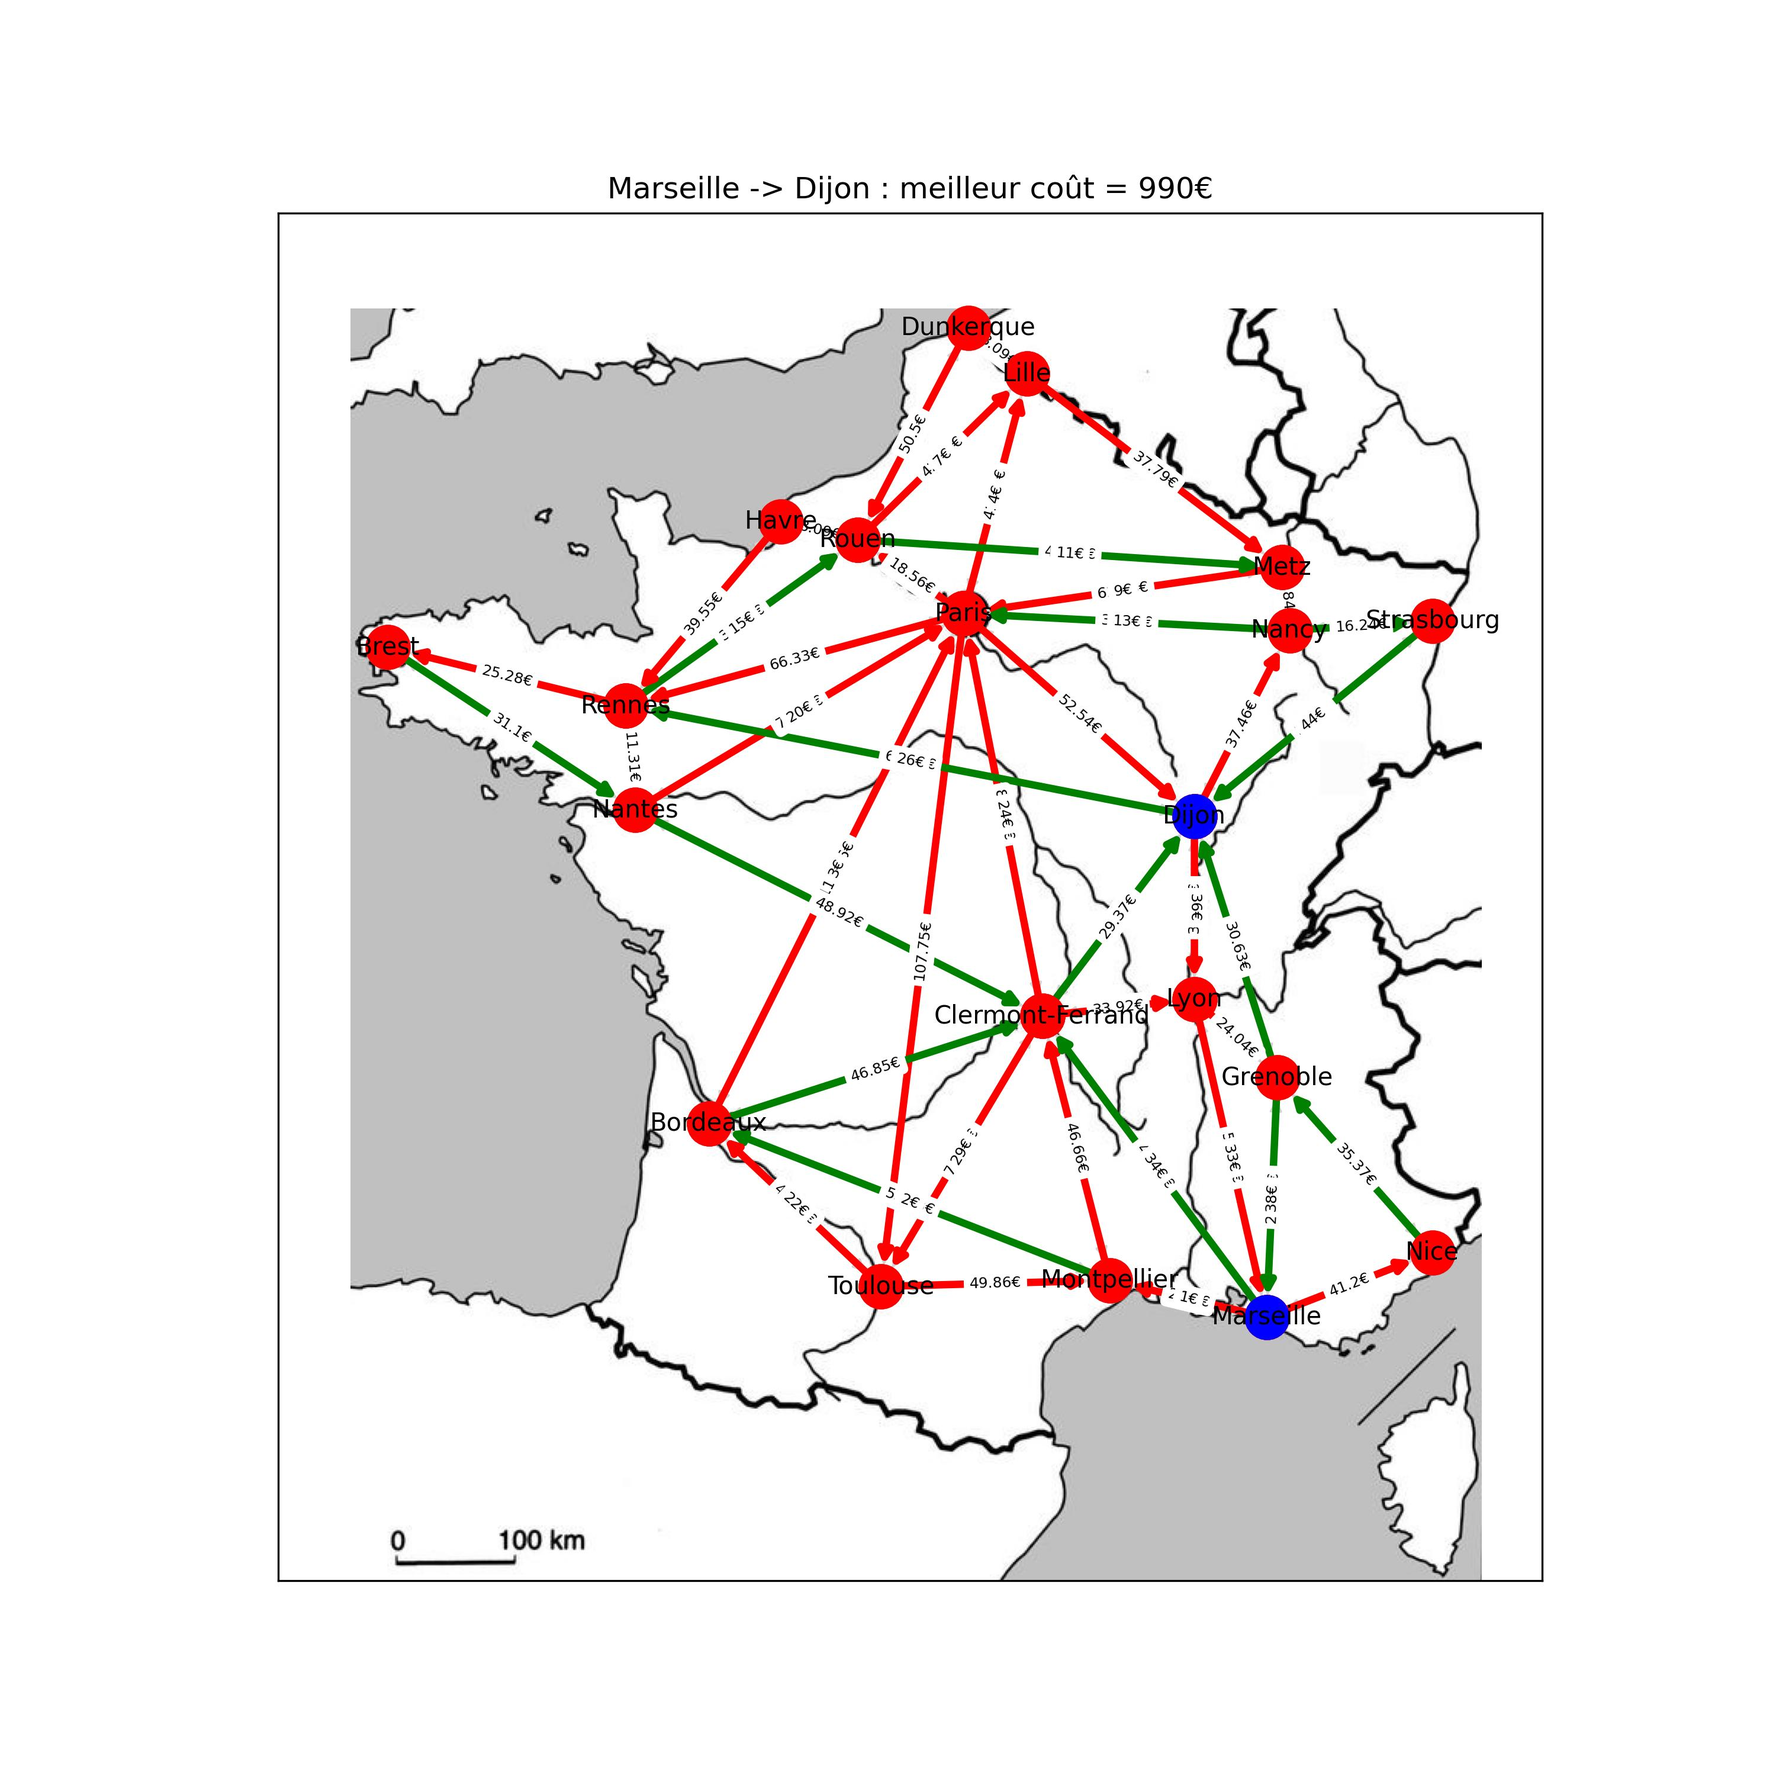
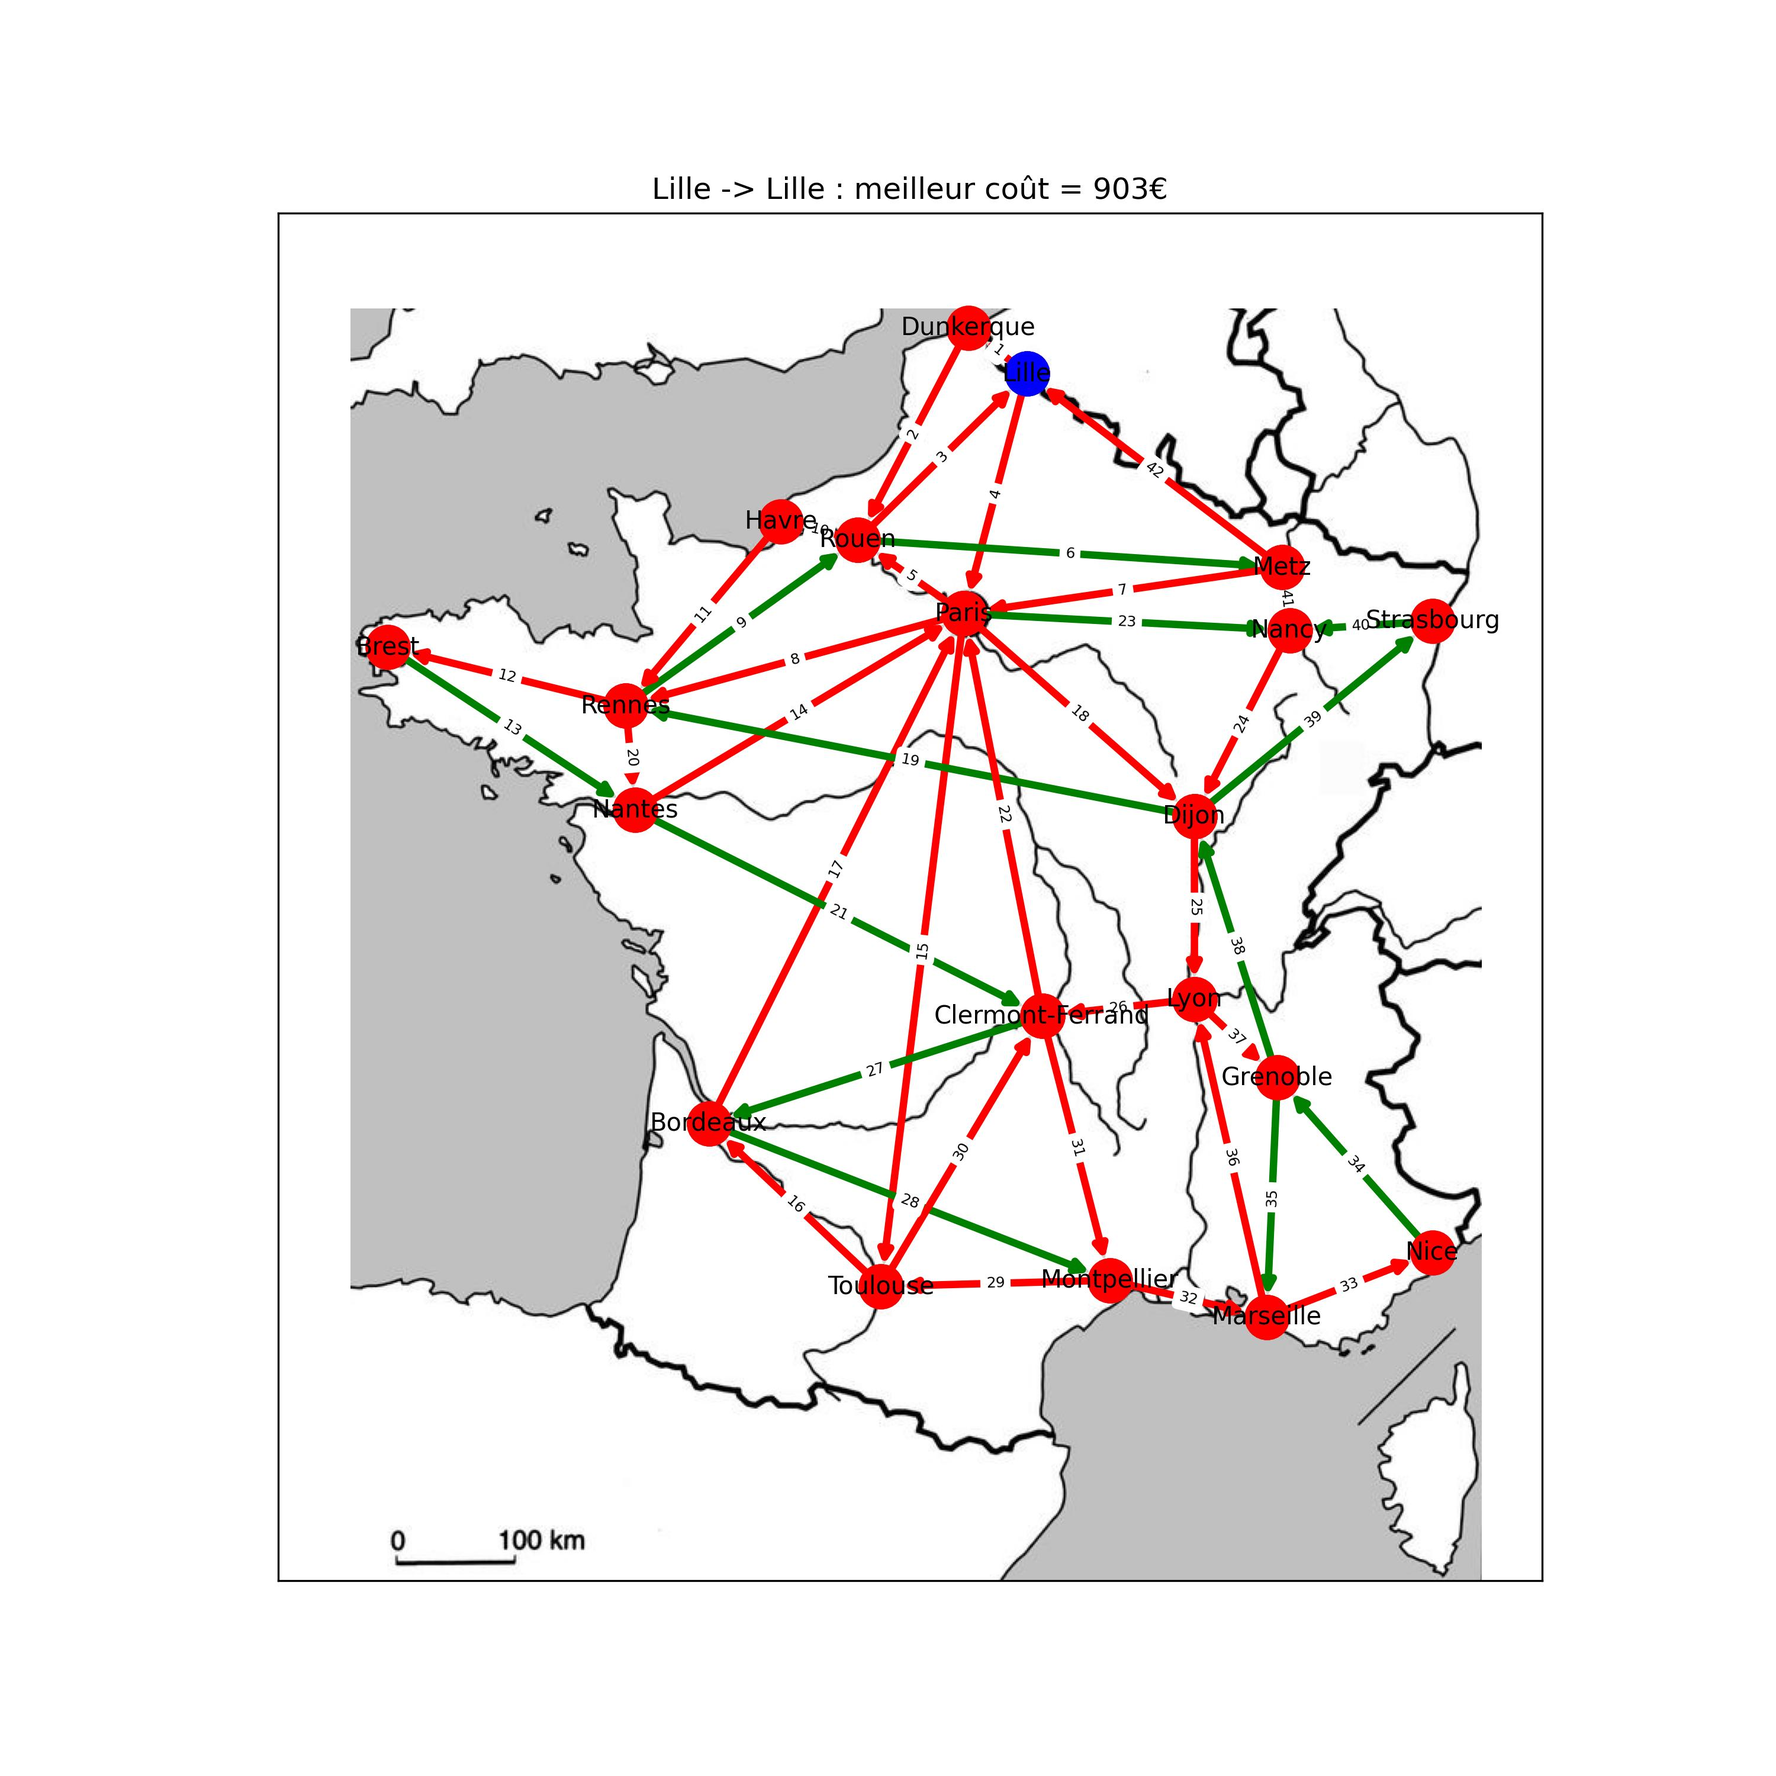
avec tous les Questions et Bonus

diff --git a/TP2_carte_son.py b/TP2_carte_son.py
@@ -110,7 +110,7 @@ def dessiner_graphe_sur_carte(graphe, sommets, chemin_image_carte, titre, show_c
 
     plt.show()
 
-def dessiner_graphe_sur_carte_avec_chemin(chemin: list, graphe, sommets, chemin_image_carte, critere, contrainte = "", direction=False, export_path=None):
+def dessiner_graphe_sur_carte_avec_chemin(chemin: list, graphe, sommets, chemin_image_carte, critere, titre, contrainte = "", direction=False, export_path=None):
     img = mpimg.imread(chemin_image_carte)
     
     plt.rcParams["figure.figsize"] = (10, 10)
@@ -119,18 +119,16 @@ def dessiner_graphe_sur_carte_avec_chemin(chemin: list, graphe, sommets, chemin_
    
     # utilisant nx, dessiner le graphe, couleur grise pour highlight plus tard
     nx.draw_networkx(
-        graphe, # réseau des liaisons
-        pos=sommets, # sommets
-        ax=ax, # plot
+        graphe,
+        pos=sommets,
+        ax=ax,
         node_color='gray',
         edge_color='lightgray',
         font_size=10,
         width=1
     )
     
-    # Surligner les sommets du chemin
-
-
+    # Surligner en rouge les sommets intermédiaires du chemin
     if len(chemin) > 2:
         nx.draw_networkx_nodes(
             graphe,
@@ -140,6 +138,7 @@ def dessiner_graphe_sur_carte_avec_chemin(chemin: list, graphe, sommets, chemin_
             node_color='red'
         )
 
+    # Surligner en blue les extrémités du chemin
     nx.draw_networkx_nodes(
         graphe,
         pos=sommets,
@@ -174,8 +173,10 @@ def dessiner_graphe_sur_carte_avec_chemin(chemin: list, graphe, sommets, chemin_
                 arrows=direction
             )
 
-            detail = f"meilleur coût = {data['cout']}€" if critere=='cout' else f"meilleur temps = {data['duree']} minutes"
-            plt.title(f"{chemin[0]} -> {chemin[-1]} {contrainte}: {detail}")
+            # detail = f"meilleur coût = {data['cout']}€" if critere=='cout' else f"meilleur temps = {data['duree']} minutes"
+            # plt.title(f"{chemin[0]} -> {chemin[-1]} {contrainte}: {detail}")
+            plt.title(f"{chemin[0]} -> {chemin[-1]} {contrainte}: {titre}")
+
         else:
             plt.title(f"{chemin[0]} -> {chemin[-1]} {contrainte}: pas de route")
     else:
@@ -218,8 +219,9 @@ def dessiner_graphe_sur_carte_avec_chemin(chemin: list, graphe, sommets, chemin_
                 arrows=direction
             )
 
-            detail = f"meilleur coût = {round(total_cout,2)}€" if critere=='cout' else f"meilleur temps = {round(total_duree,2)} minutes"
-            plt.title(f"{chemin[0]} -> {chemin[-1]} {contrainte}: {detail}")
+            # detail = f"meilleur coût = {round(total_cout,2)}€" if critere=='cout' else f"meilleur temps = {round(total_duree,2)} minutes"
+            # plt.title(f"{chemin[0]} -> {chemin[-1]} {contrainte}: {detail}")
+            plt.title(f"{chemin[0]} -> {chemin[-1]} {contrainte}: {titre}")
 
     # Afficher cout / durée sur la carte
     if critere == 'cout':
@@ -311,122 +313,117 @@ if __name__ == "__main__":
 
     # =================================================================================================
     
-    # # Q1
-    # if nx.is_connected(G):
-    #     connexe = "est connexe"
-    # else: connexe = "n'est pas connexe"
-    # print(f"Q1: Le graphe {connexe}")
-    # dessiner_graphe_sur_carte(G, sommets, chemin_image_carte, f"graphe {connexe}")
+    # Q1
+    if nx.is_connected(G):
+        connexe = "est connexe"
+    else: connexe = "n'est pas connexe"
+    print(f"Q1: Le graphe {connexe}")
+    dessiner_graphe_sur_carte(G, sommets, chemin_image_carte, f"graphe {connexe}")
 
 
 
-    # # Q2 - chemin le plus court
-    # ville_depart="Paris"
-    # ville_arrivee="Rennes"
-    # print(f"Q2: Chemin le plus court entre : {ville_depart} et {ville_arrivee}")
-    # chemin_duree = meilleur_chemin(graphe=G, ville_depart=ville_depart, ville_arrivee=ville_arrivee, critere='duree')
-    # dessiner_graphe_sur_carte_avec_chemin(chemin_duree, G, sommets, chemin_image_carte, critere='duree')
+    # Q2 - chemin le plus court
+    ville_depart="Paris"
+    ville_arrivee="Rennes"
+    print(f"Q2: Chemin le plus court entre : {ville_depart} et {ville_arrivee}")
+    chemin_duree = meilleur_chemin(graphe=G, ville_depart=ville_depart, ville_arrivee=ville_arrivee, critere='duree')
+    dessiner_graphe_sur_carte_avec_chemin(chemin_duree, G, sommets, chemin_image_carte, titre='chemin le plus court', critere='duree')
 
 
 
-    # # Q3 - chemin le moins cher
-    # ville_depart="Paris"
-    # ville_arrivee="Marseille"
+    # Q3 - chemin le moins cher
+    ville_depart="Paris"
+    ville_arrivee="Marseille"
 
-    # print(f"Q3: Chemin le moins cher entre : {ville_depart} et {ville_arrivee}")
-    # chemin_cout = meilleur_chemin(graphe=G, ville_depart=ville_depart, ville_arrivee=ville_arrivee, critere='cout')
-    # dessiner_graphe_sur_carte_avec_chemin(chemin_cout, G, sommets, chemin_image_carte, critere='cout')
+    print(f"Q3: Chemin le moins cher entre : {ville_depart} et {ville_arrivee}")
+    chemin_cout = meilleur_chemin(graphe=G, ville_depart=ville_depart, ville_arrivee=ville_arrivee, critere='cout')
+    dessiner_graphe_sur_carte_avec_chemin(chemin_cout, G, sommets, chemin_image_carte, titre='chemin le moins cher', critere='cout')
 
 
 
-    # # Q4 - chemin le plus court SANS autoroutes
-    # ville_depart="Paris"
-    # ville_arrivee="Havre"
+    # Q4 - chemin le plus court SANS autoroutes
+    ville_depart="Paris"
+    ville_arrivee="Havre"
     
-    # print(f"Q4: Chemin le plus court SANS autoroutes entre : {ville_depart} et {ville_arrivee}")
-    # G_filtre = filtre_graphe(G,'a')
-    # dessiner_graphe_sur_carte(G_filtre, sommets, chemin_image_carte, "Carte sans autoroutes", show_duree=True, export_path="carte_sans_autoroute_avec_duree.jpg")
-    # chemin_duree_sans_a = meilleur_chemin(graphe=G_filtre, ville_depart=ville_depart, ville_arrivee=ville_arrivee, critere='duree')
-    # dessiner_graphe_sur_carte_avec_chemin(chemin_duree_sans_a, G_filtre, sommets, chemin_image_carte, critere='duree', contrainte="sans autoroutes")
+    print(f"Q4: Chemin le plus court SANS autoroutes entre : {ville_depart} et {ville_arrivee}")
+    G_filtre = filtre_graphe(G,'a')
+    dessiner_graphe_sur_carte(G_filtre, sommets, chemin_image_carte, "Carte sans autoroutes", show_duree=True, export_path="carte_sans_autoroute_avec_duree.jpg")
+    chemin_duree_sans_a = meilleur_chemin(graphe=G_filtre, ville_depart=ville_depart, ville_arrivee=ville_arrivee, critere='duree')
+    dessiner_graphe_sur_carte_avec_chemin(chemin_duree_sans_a, G_filtre, sommets, chemin_image_carte, titre='chemin le plus court', critere='duree', contrainte="sans autoroutes")
 
 
 
     # Q5 - chemin le moins cher SANS routes départementales
-    # ville_depart="Brest"
-    # ville_arrivee="Nice"
+    ville_depart="Brest"
+    ville_arrivee="Nice"
 
-    # print(f"Q5: Chemin le moins cher SANS routes départementales entre : {ville_depart} et {ville_arrivee}")
-    # G_filtre = filtre_graphe(G,'d')
-    # dessiner_graphe_sur_carte(G_filtre, sommets, chemin_image_carte, "Carte sans routes départementales", show_cout=True, export_path="carte_sans_dept_avec_cout.jpg")
-    # chemin_cout_sans_d = meilleur_chemin(graphe=G_filtre, ville_depart=ville_depart, ville_arrivee=ville_arrivee, critere='cout')
-    # dessiner_graphe_sur_carte_avec_chemin(chemin_cout_sans_d, G_filtre, sommets, chemin_image_carte, critere='cout', contrainte="sans routes départementales")
+    print(f"Q5: Chemin le moins cher SANS routes départementales entre : {ville_depart} et {ville_arrivee}")
+    G_filtre = filtre_graphe(G,'d')
+    dessiner_graphe_sur_carte(G_filtre, sommets, chemin_image_carte, "Carte sans routes départementales", show_cout=True, export_path="carte_sans_dept_avec_cout.jpg")
+    chemin_cout_sans_d = meilleur_chemin(graphe=G_filtre, ville_depart=ville_depart, ville_arrivee=ville_arrivee, critere='cout')
+    dessiner_graphe_sur_carte_avec_chemin(chemin_cout_sans_d, G_filtre, sommets, chemin_image_carte, titre='chemin le moins cher', critere='cout', contrainte="sans routes départementales")
 
 
 
-    # # BONUS1 - afficher le chemin le plus rapide et le chemin le moins cher sur le même graphe
-    # ville_depart="Brest"
-    # ville_arrivee="Marseille"
+    # BONUS1 - afficher le chemin le plus rapide et le chemin le moins cher sur le même graphe
+    ville_depart="Brest"
+    ville_arrivee="Marseille"
 
-    # print(f"BONUS1: Chemin le moins cher vs. le plus rapide entre : {ville_depart} et {ville_arrivee}")
-    # chemin_cout = meilleur_chemin(graphe=G, ville_depart=ville_depart, ville_arrivee=ville_arrivee, critere='cout')
-    # chemin_duree = meilleur_chemin(graphe=G, ville_depart=ville_depart, ville_arrivee=ville_arrivee, critere='duree')
+    print(f"BONUS1: Chemin le moins cher vs. le plus rapide entre : {ville_depart} et {ville_arrivee}")
+    chemin_cout = meilleur_chemin(graphe=G, ville_depart=ville_depart, ville_arrivee=ville_arrivee, critere='cout')
+    chemin_duree = meilleur_chemin(graphe=G, ville_depart=ville_depart, ville_arrivee=ville_arrivee, critere='duree')
     
-    # chemin_duree_inverse = list(reversed(chemin_duree))
-    # if len(chemin_duree_inverse) > 2:
-    #     chemin_duree_inverse = chemin_duree_inverse[1:]
-    # chemin_total = chemin_cout + chemin_duree_inverse
+    chemin_duree_inverse = list(reversed(chemin_duree))
+    if len(chemin_duree_inverse) > 2:
+        chemin_duree_inverse = chemin_duree_inverse[1:]
+    chemin_total = chemin_cout + chemin_duree_inverse
     
-    # dessiner_graphe_sur_carte_avec_chemin(chemin_total, G, sommets, chemin_image_carte, critere='cout')
+    dessiner_graphe_sur_carte_avec_chemin(chemin_total, G, sommets, chemin_image_carte, titre='time vs. money', critere='cout')
 
 
-    # # BONUS2 - afficher tous les "shortest paths"
-    # ville_depart="Brest"
-    # ville_arrivee="Nice"
+    # BONUS2 - afficher tous les "shortest paths"
+    ville_depart="Brest"
+    ville_arrivee="Nice"
 
-    # meilleur_chemin_all = list(meilleur_chemin_all(graphe=G, ville_depart=ville_depart, ville_arrivee=ville_arrivee, critere='cout'))
-    # print(meilleur_chemin_all)
-    # # dessiner_graphe_sur_carte_avec_chemin(chemin_total, G, sommets, chemin_image_carte, critere='cout')
-
-
-
-
-    # # BONUS3 - afficher tous les chemins et leur coût. Filtre le graphe avant de lancer l'algo car trop de résultats sinon
-    # ville_depart="Brest"
-    # ville_arrivee="Nice"
-
-    # # G_filtre = filtre_graphe(G,'a')
-    # # dessiner_graphe_sur_carte(G_filtre, sommets, chemin_image_carte, "Carte sans autoroutes", show_duree=True, export_path="carte_sans_autoroute_avec_duree.jpg")
-
-    # G_filtre = filtre_graphe(G,'d')
-    # dessiner_graphe_sur_carte(G_filtre, sommets, chemin_image_carte, "Carte sans routes départementales", show_cout=True, export_path="carte_sans_dept_avec_cout.jpg")
-
-    # result = all_paths_with_costs(graphe=G_filtre, ville_depart=ville_depart, ville_arrivee=ville_arrivee, critere='cout')
-    # result_sorted = sorted(result, key=lambda x: x[1])
-    # for path in result_sorted[0:5]:
-    #     print(path)
-    # # dessiner_graphe_sur_carte_avec_chemin(chemin_total, G, sommets, chemin_image_carte, critere='cout')
+    meilleur_chemin_all = list(meilleur_chemin_all(graphe=G, ville_depart=ville_depart, ville_arrivee=ville_arrivee, critere='cout'))
+    print(meilleur_chemin_all)
 
 
 
-    # # BONUS4 - afficher l'arbre couvrant poid minimum (MST)
-    # T_cout = find_mst(G,'cout')
-    # dessiner_graphe_sur_carte(T_cout, sommets, chemin_image_carte, "MST coût", export_path="mst_cout.jpg")
 
-    # T_duree = find_mst(G,'duree')
-    # dessiner_graphe_sur_carte(T_duree, sommets, chemin_image_carte, "MST durée", export_path="mst_duree.jpg")
+    # BONUS3 - afficher tous les chemins et leur coût. Filtre le graphe avant de lancer l'algo car trop de résultats sinon
+    ville_depart="Brest"
+    ville_arrivee="Nice"
+
+    # G_filtre = filtre_graphe(G,'a')
+    # dessiner_graphe_sur_carte(G_filtre, sommets, chemin_image_carte, "Carte sans autoroutes", show_duree=True, export_path="carte_sans_autoroute_avec_duree.jpg")
+
+    G_filtre = filtre_graphe(G,'d')
+    dessiner_graphe_sur_carte(G_filtre, sommets, chemin_image_carte, "Carte sans routes départementales", show_cout=True, export_path="carte_sans_dept_avec_cout.jpg")
+
+    result = all_paths_with_costs(graphe=G_filtre, ville_depart=ville_depart, ville_arrivee=ville_arrivee, critere='cout')
+    # Afficher les 5 meilleurs chemins
+    result_sorted = sorted(result, key=lambda x: x[1])
+    for path in result_sorted[0:5]:
+        print(path)
+
+
+    # BONUS4 - afficher l'arbre couvrant poid minimum (MST)
+    T_cout = find_mst(G,'cout')
+    dessiner_graphe_sur_carte(T_cout, sommets, chemin_image_carte, "MST coût", export_path="mst_cout.jpg")
+
+    T_duree = find_mst(G,'duree')
+    dessiner_graphe_sur_carte(T_duree, sommets, chemin_image_carte, "MST durée", export_path="mst_duree.jpg")
 
     
 
-    # BONUS5 - checker si le graphe est euler
+    # BONUS 5a - checker si le graphe est semi-euler
     sommets_impairs = [x for x in G.nodes() if G.degree(x) % 2 == 1]
     for sommet in sommets_impairs:
         print(f"{sommet} - {G.degree(sommet)}")
         
     euler = nx.is_eulerian(G)
     print(f"Graphe dispose d'un cicuit euler ? {euler}")
-
-
-
 
     semieuler = nx.is_semieulerian(G)
     print(f"Graphe dispose d'un parcours euler ? {semieuler}")
@@ -446,9 +443,35 @@ if __name__ == "__main__":
             DG.add_edge(u, v, **attr)
 
         nodes_euler_path = [aretes_euler_path[0][0]] + [v for u, v in aretes_euler_path]
-        dessiner_graphe_sur_carte_avec_chemin(nodes_euler_path, DG, sommets, chemin_image_carte, critere='cout', direction=True, export_path="euler_path.jpg")
+        dessiner_graphe_sur_carte_avec_chemin(nodes_euler_path, DG, sommets, chemin_image_carte, titre='parcours Euler', critere='cout', direction=True, export_path="euler_path.jpg")
 
+    # BONUS 5b - checker si le graphe est euler (supprimer en plus Clermont - Dijon & Chermont - Marseille)
+    sommets_impairs = [x for x in G.nodes() if G.degree(x) % 2 == 1]
+    for sommet in sommets_impairs:
+        print(f"{sommet} - {G.degree(sommet)}")
+        
+    euler = nx.is_eulerian(G)
+    print(f"Graphe dispose d'un cicuit euler ? {euler}")
 
+    semieuler = nx.is_semieulerian(G)
+    print(f"Graphe dispose d'un parcours euler ? {semieuler}")
+
+    if euler:
+        aretes_euler_circuit = list(nx.eulerian_path(G))
+
+        # Create directed graph and copy node positions
+        DG = nx.DiGraph()
+        DG.add_nodes_from(G.nodes(data=True))
+
+        # Add edges along the Euler path and assign the order
+        for order, (u, v) in enumerate(aretes_euler_circuit, start=1):
+            # Copy edge attributes from the original undirected graph
+            attr = G[u][v].copy()
+            attr['cout'] = order  # overwrite cout with Euler order
+            DG.add_edge(u, v, **attr)
+
+        nodes_euler_path = [aretes_euler_circuit[0][0]] + [v for u, v in aretes_euler_circuit]
+        dessiner_graphe_sur_carte_avec_chemin(nodes_euler_path, DG, sommets, chemin_image_carte, titre='circuit Euler', critere='cout', direction=True, export_path="euler_circuit.jpg")
 
     
 
